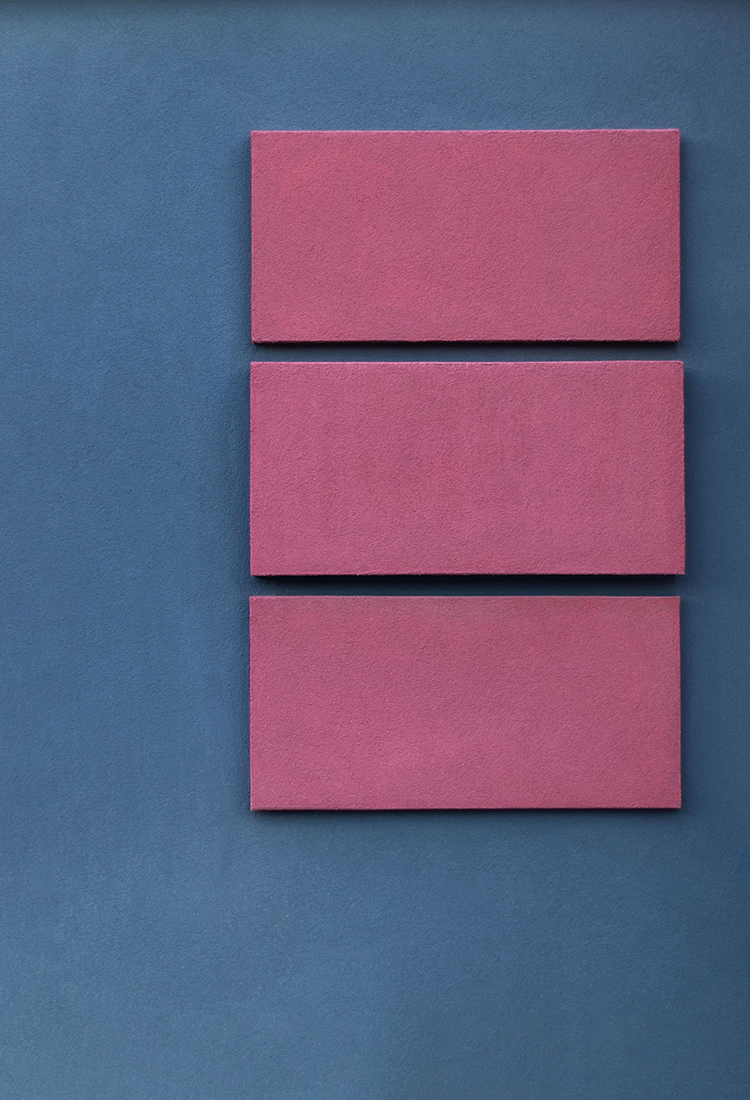
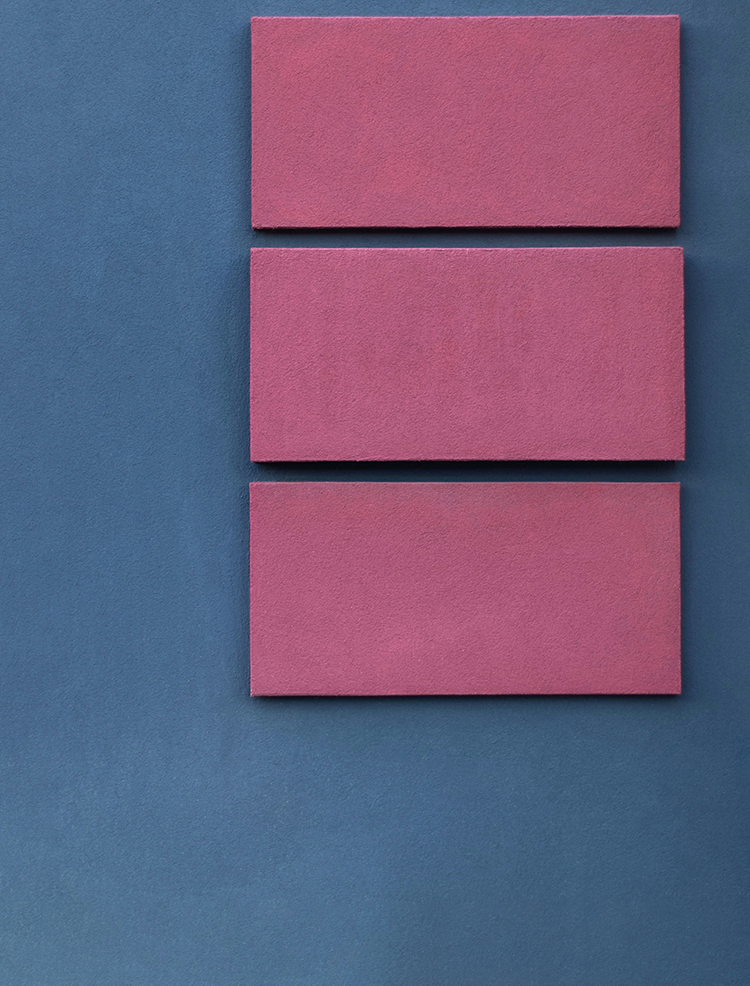
Modified hero section

diff --git a/src/scss/sections/_main.scss b/src/scss/sections/_main.scss
@@ -9,21 +9,25 @@
     padding-top: 0;
   }
   &__content {
-    background-image: url(../img/sp/img_hero.png);
+    background-image: url(../img/sp/img_hero1.png);
     background-size: cover;
     background-repeat: no-repeat;
     // background-position: center;
     // background-attachment: fixed;
-    padding: u.rem(128) u.rem(32) u.rem(32) u.rem(32);
+    padding: u.rem(32) u.rem(32);
     @include u.breakpoint(medium) {
       background-image: url(../img/img_hero.png);
+      padding: u.rem(128) u.rem(32) u.rem(32) u.rem(32);
     }
   }
   &__content-wrap {
     // display: inline-block; /* Allows the width to shrink to fit the content */
     width: fit-content; /* Shrinks to fit the content */
     border-radius: u.rem(20);
-    padding: u.rem(40);
+    padding: u.rem(20);
+    @include u.breakpoint(medium) {
+      padding: u.rem(40);
+    }
   }
   .glass-effect {
     background-color: rgba(255, 255, 255, 0.1);
@@ -105,18 +109,30 @@
   }
 }
 .hero__heading {
-  font-size: var(--step-4);
-  line-height: 1.4;
+  font-size: var(--step-3);
+  line-height: 1.2;
+  @include u.breakpoint(medium) {
+    font-size: var(--step-4);
+    line-height: 1.4;
+  }
 }
 .section__heading {
   @extend .hero__heading;
 }
 .hero__text {
   max-width: 75ch;
-  font-size: var(--step-0);
+  font-size: var(--step--1);
   & span {
-    font-size: var(--step-1);
+    font-size: var(--step-0);
     font-weight: 700;
+  }
+  @include u.breakpoint(medium) {
+    max-width: 75ch;
+    font-size: var(--step-0);
+    & span {
+      font-size: var(--step-1);
+      font-weight: 700;
+    }
   }
 }
 /* SERVICE*/

diff --git a/index.html b/index.html
@@ -224,16 +224,18 @@
               <p class="hero__text mbl-space-s">
                 ワタナベフミエのポートフォリオサイトへようこそ！
                 <br />
+                ブロックを積んでいくように
                 <span>「Web」</span>
-                にオドロキやワクワク感、
-                <span>「Fun」</span>
-                を！ そして、キチンと設計された
-                <span>「FrameWork」</span>
-                をベースに安心を！ の意味を込めて
-                <span>FW</span>
-                をロゴにしました。
+                サイトを組んでいく。
                 <br />
-                デザインカンプからの制作に加え、お手軽にノーコードツールのテンプレートを用いてデザインから公開までスピーディーに対応することも可能です。
+                <span>「FrameWork」</span>
+                がしっかりしていれば、使いやすい。
+                <br />
+                そこにオドロキやワクワク感、
+                <span>「Fun」</span>
+                があったらだれもが楽しい。
+                <br />
+                臨機応変にノーコードツールも取り入れながら、これらの価値を提供していきます！
               </p>
             </div>
           </div>

diff --git a/css/style.css b/css/style.css
@@ -487,20 +487,26 @@ a {
   }
 }
 .hero__content {
-  background-image: url(../img/sp/img_hero.png);
+  background-image: url(../img/sp/img_hero1.png);
   background-size: cover;
   background-repeat: no-repeat;
-  padding: 8rem 2rem 2rem 2rem;
+  padding: 2rem 2rem;
 }
 @media (min-width: 48em) {
   .hero__content {
     background-image: url(../img/img_hero.png);
+    padding: 8rem 2rem 2rem 2rem;
   }
 }
 .hero__content-wrap {
   width: fit-content; /* Shrinks to fit the content */
   border-radius: 1.25rem;
-  padding: 2.5rem;
+  padding: 1.25rem;
+}
+@media (min-width: 48em) {
+  .hero__content-wrap {
+    padding: 2.5rem;
+  }
 }
 .hero .glass-effect {
   background-color: rgba(255, 255, 255, 0.1);
@@ -578,17 +584,33 @@ a {
 }
 
 .hero__heading, .section__heading {
-  font-size: var(--step-4);
-  line-height: 1.4;
+  font-size: var(--step-3);
+  line-height: 1.2;
+}
+@media (min-width: 48em) {
+  .hero__heading, .section__heading {
+    font-size: var(--step-4);
+    line-height: 1.4;
+  }
 }
 
 .hero__text {
   max-width: 75ch;
-  font-size: var(--step-0);
+  font-size: var(--step--1);
 }
 .hero__text span {
-  font-size: var(--step-1);
+  font-size: var(--step-0);
   font-weight: 700;
+}
+@media (min-width: 48em) {
+  .hero__text {
+    max-width: 75ch;
+    font-size: var(--step-0);
+  }
+  .hero__text span {
+    font-size: var(--step-1);
+    font-weight: 700;
+  }
 }
 
 /* SERVICE*/
